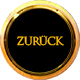
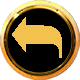
ADD - Translation

Changed region(s): [[0.15, 0.2, 0.8, 0.725]]

diff --git a/software/var/www/css/style.css b/software/var/www/css/style.css
@@ -698,7 +698,7 @@ color:#000000;
 
 /* CSS Regeln für die Buttons ##################################################################################### */
 
-.button_yes, .button_delete, .button_save, .button_back{
+.button_yes, .button_delete, .button_save, .button_back, .button_no{
 margin:10px;
 height:80px;
 width:80px;
@@ -714,8 +714,8 @@ background-image:url(../images/button/button_yes.png);
 .button_delete{
 background-image:url(../images/button/button_delete.png);
 }
-.button_save{
-background-image:url(../images/button/button_save.png);
+.button_no{
+background-image:url(../images/button/button_no.png);
 }
 .button_back{
 background-image:url(../images/button/button_back.png);

diff --git a/software/var/www/function.php b/software/var/www/function.php
@@ -252,12 +252,17 @@ function restoreConfig($newconfig,$oldconfig) {
 	write_ini($newconfig, $newconfigfile);
 }
 
-function getPlotConfig($plot){
+function getPlotConfig($plot,$temp_unit){
 	if($_SESSION["keyboxframe"] == "True"){ 
 		$keyboxframe_value = "box lw 2";
 	}
 	if($_SESSION["keyboxframe"] == "False"){ 
 		$keyboxframe_value = "";
+	}
+	if ($temp_unit == 'celsius') {
+		$temp_unit = "[°C]";
+	} elseif ($temp_unit == 'fahrenheit') {
+		$temp_unit = "[°F]";
 	}
 	$plotsize = explode("x", $_SESSION["plotsize"]);
 	$plotsize = "".$plotsize[0].",".$plotsize[1]."";	
@@ -273,7 +278,7 @@ function getPlotConfig($plot){
 	$plot_setting .= "set timefmt \\\"%d.%m.%y %H:%M:%S\\\";";
 	$plot_setting .= "set format x \\\"%H:%M\\\";";
 	$plot_setting .= "set xlabel \\\"Uhrzeit\\\";";
-	$plot_setting .= "set y2label \\\"Temperatur [°C]\\\";";
+	$plot_setting .= "set y2label \\\"Temperatur ".$temp_unit."\\\";";
 	$plot_setting .= "set y2range [".$_SESSION["plotbereich_min"].":".$_SESSION["plotbereich_max"]."];";
 	$plot_setting .= "set xtics nomirror;";
 	$plot_setting .= "set y2tics nomirror;";

diff --git a/software/var/www/main.php b/software/var/www/main.php
@@ -316,7 +316,7 @@ if (isset($_SESSION["to_update"])){
 	//-------------------------------------------------------------------------------------------------------------------------------------	
 	
 	if ($_SESSION["plot_start"] == "True"){
-		$plot_setting = getPlotConfig($plot);
+		$plot_setting = getPlotConfig($plot,$_SESSION['temp_unit']);
 		if (is_dir("/var/www/tmp")){
 			$message .= "Verzeichnis 'tmp' vorhanden! \n";
 			$plotdateiname = '/var/www/tmp/temperaturkurve.png';

diff --git a/software/var/www/header.php b/software/var/www/header.php
@@ -1,7 +1,7 @@
 <?php
 error_reporting(E_ALL);
 ini_set('display_errors', TRUE);
-$_SESSION["webGUIversion"] = "V2.4.0-0rc4";
+$_SESSION["webGUIversion"] = "V2.5.0-alpha1";
 $title = "WLAN Thermometer";
 $document_root = getenv('DOCUMENT_ROOT');
 include("gettext.php");
